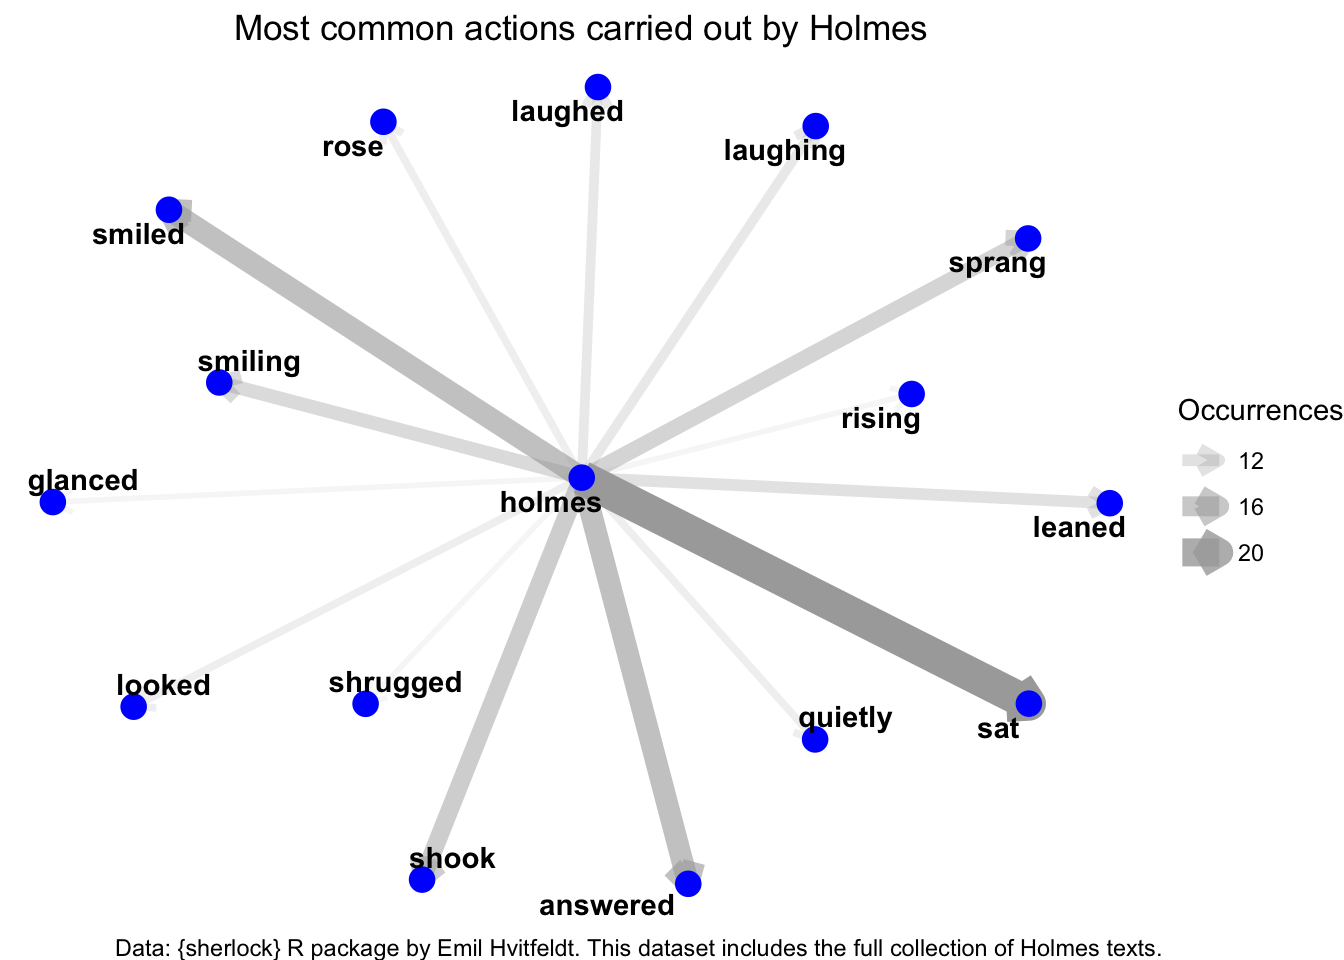
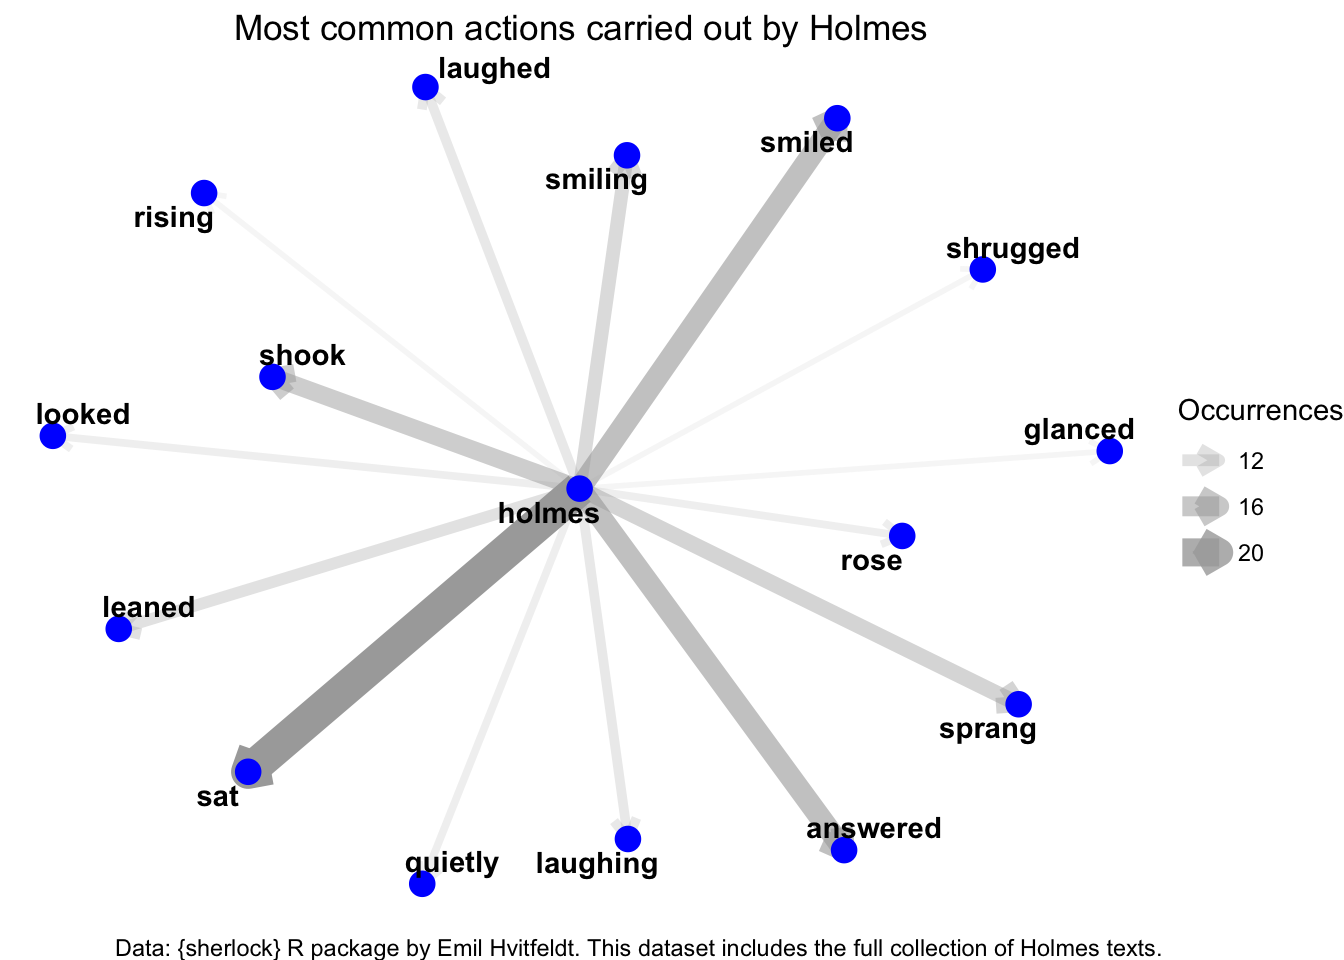
tidy tuesday update

diff --git a/Tidy_Tuesday/2025-11-18/Scripts/TidyTuesday3.html b/Tidy_Tuesday/2025-11-18/Scripts/TidyTuesday3.html
@@ -153,11 +153,9 @@ pre > code.sourceCode > span > a:first-child::before { text-decoration: underlin
 <span id="cb2-7"><a href="#cb2-7" aria-hidden="true" tabindex="-1"></a>  <span class="fu">count</span>(word1, word2, <span class="at">sort =</span> <span class="cn">TRUE</span>) <span class="sc">%&gt;%</span> <span class="co">#count the number of occurences</span></span>
 <span id="cb2-8"><a href="#cb2-8" aria-hidden="true" tabindex="-1"></a>  <span class="fu">drop_na</span>() <span class="sc">%&gt;%</span> <span class="co">#drop NAs</span></span>
 <span id="cb2-9"><a href="#cb2-9" aria-hidden="true" tabindex="-1"></a>  <span class="fu">top_n</span>(<span class="dv">15</span>) <span class="sc">%&gt;%</span> <span class="co">#choose top 15 occurences</span></span>
-<span id="cb2-10"><a href="#cb2-10" aria-hidden="true" tabindex="-1"></a>  <span class="fu">rename</span>(<span class="at">Occurrences =</span> n)</span></code><button title="Copy to Clipboard" class="code-copy-button"><i class="bi"></i></button></pre></div>
-<div class="cell-output cell-output-stderr">
-<pre><code>Selecting by n</code></pre>
-</div>
-<div class="sourceCode cell-code" id="cb4"><pre class="sourceCode r code-with-copy"><code class="sourceCode r"><span id="cb4-1"><a href="#cb4-1" aria-hidden="true" tabindex="-1"></a><span class="fu">glimpse</span>(tidyholmes) <span class="co">#take a look at the tidied data!</span></span></code><button title="Copy to Clipboard" class="code-copy-button"><i class="bi"></i></button></pre></div>
+<span id="cb2-10"><a href="#cb2-10" aria-hidden="true" tabindex="-1"></a>  <span class="fu">rename</span>(<span class="at">Occurrences =</span> n)</span>
+<span id="cb2-11"><a href="#cb2-11" aria-hidden="true" tabindex="-1"></a></span>
+<span id="cb2-12"><a href="#cb2-12" aria-hidden="true" tabindex="-1"></a><span class="fu">glimpse</span>(tidyholmes) <span class="co">#take a look at the tidied data!</span></span></code><button title="Copy to Clipboard" class="code-copy-button"><i class="bi"></i></button></pre></div>
 <div class="cell-output cell-output-stdout">
 <pre><code>Rows: 15
 Columns: 3
@@ -171,23 +169,19 @@ $ Occurrences &lt;int&gt; 23, 17, 17, 15, 14, 13, 12, 11, 11, 10, 10, 10, 9, 9, 
 <h1>Let’s make a word network plot!</h1>
 <p>This is the first time I’m using a word network plot. This will show us the relationship between the character Holmes and actions that he undertakes in all of the books.</p>
 <div class="cell">
-<div class="sourceCode cell-code" id="cb6"><pre class="sourceCode r code-with-copy"><code class="sourceCode r"><span id="cb6-1"><a href="#cb6-1" aria-hidden="true" tabindex="-1"></a><span class="fu">ggraph</span>(tidyholmes, </span>
-<span id="cb6-2"><a href="#cb6-2" aria-hidden="true" tabindex="-1"></a>       <span class="at">layout =</span> <span class="st">"fr"</span>) <span class="sc">+</span> <span class="co">#fr spreads out the points and lines on the graph</span></span>
-<span id="cb6-3"><a href="#cb6-3" aria-hidden="true" tabindex="-1"></a>  <span class="fu">geom_edge_link</span>(<span class="fu">aes</span>(<span class="at">alpha =</span> Occurrences, <span class="at">width =</span> Occurrences), <span class="co">#this geometry will add the edges/lines to connect word1 to word2</span></span>
-<span id="cb6-4"><a href="#cb6-4" aria-hidden="true" tabindex="-1"></a>                <span class="at">edge_colour =</span> <span class="st">"darkgrey"</span>,    <span class="co">#edge/line color</span></span>
-<span id="cb6-5"><a href="#cb6-5" aria-hidden="true" tabindex="-1"></a>                <span class="at">arrow =</span> <span class="fu">arrow</span>(<span class="at">length =</span> <span class="fu">unit</span>(<span class="dv">3</span>, <span class="st">'mm'</span>))) <span class="sc">+</span> <span class="co">#arrow length and size</span></span>
-<span id="cb6-6"><a href="#cb6-6" aria-hidden="true" tabindex="-1"></a>  <span class="fu">geom_node_point</span>(<span class="at">color =</span> <span class="st">"blue"</span>, <span class="at">size =</span> <span class="dv">4</span>) <span class="sc">+</span> <span class="co">#add nodes for edges to connect to</span></span>
-<span id="cb6-7"><a href="#cb6-7" aria-hidden="true" tabindex="-1"></a>  <span class="fu">geom_node_text</span>(<span class="fu">aes</span>(<span class="at">label =</span> name), <span class="co">#add labels to the nodes </span></span>
-<span id="cb6-8"><a href="#cb6-8" aria-hidden="true" tabindex="-1"></a>                 <span class="at">repel =</span> <span class="cn">TRUE</span>, <span class="co">#prevent labels from overlapping</span></span>
-<span id="cb6-9"><a href="#cb6-9" aria-hidden="true" tabindex="-1"></a>                 <span class="at">fontface =</span> <span class="st">"bold"</span>) <span class="sc">+</span> <span class="co">#bold font so word2 is distinct from plot</span></span>
-<span id="cb6-10"><a href="#cb6-10" aria-hidden="true" tabindex="-1"></a>  <span class="fu">theme_void</span>() <span class="sc">+</span> <span class="co">#remove x and y axis</span></span>
-<span id="cb6-11"><a href="#cb6-11" aria-hidden="true" tabindex="-1"></a>  <span class="fu">labs</span>(<span class="at">title =</span> <span class="st">"Most common actions carried out by Holmes"</span>,</span>
-<span id="cb6-12"><a href="#cb6-12" aria-hidden="true" tabindex="-1"></a>       <span class="at">caption =</span> <span class="st">"Data: {sherlock} R package by Emil Hvitfeldt. This dataset includes the full collection of Holmes texts."</span>) <span class="sc">+</span></span>
-<span id="cb6-13"><a href="#cb6-13" aria-hidden="true" tabindex="-1"></a>  <span class="fu">theme</span>(<span class="at">plot.title =</span> <span class="fu">element_text</span>(<span class="at">hjust =</span> <span class="fl">0.5</span>)) <span class="co">#adjust title text to halfway point </span></span></code><button title="Copy to Clipboard" class="code-copy-button"><i class="bi"></i></button></pre></div>
-<div class="cell-output cell-output-stderr">
-<pre><code>Warning: The `trans` argument of `continuous_scale()` is deprecated as of ggplot2 3.5.0.
-ℹ Please use the `transform` argument instead.</code></pre>
-</div>
+<div class="sourceCode cell-code" id="cb4"><pre class="sourceCode r code-with-copy"><code class="sourceCode r"><span id="cb4-1"><a href="#cb4-1" aria-hidden="true" tabindex="-1"></a><span class="fu">ggraph</span>(tidyholmes, </span>
+<span id="cb4-2"><a href="#cb4-2" aria-hidden="true" tabindex="-1"></a>       <span class="at">layout =</span> <span class="st">"fr"</span>) <span class="sc">+</span> <span class="co">#fr spreads out the points and lines on the graph</span></span>
+<span id="cb4-3"><a href="#cb4-3" aria-hidden="true" tabindex="-1"></a>  <span class="fu">geom_edge_link</span>(<span class="fu">aes</span>(<span class="at">alpha =</span> Occurrences, <span class="at">width =</span> Occurrences), <span class="co">#this geometry will add the edges/lines to connect word1 to word2</span></span>
+<span id="cb4-4"><a href="#cb4-4" aria-hidden="true" tabindex="-1"></a>                <span class="at">edge_colour =</span> <span class="st">"darkgrey"</span>,    <span class="co">#edge/line color</span></span>
+<span id="cb4-5"><a href="#cb4-5" aria-hidden="true" tabindex="-1"></a>                <span class="at">arrow =</span> <span class="fu">arrow</span>(<span class="at">length =</span> <span class="fu">unit</span>(<span class="dv">3</span>, <span class="st">'mm'</span>))) <span class="sc">+</span> <span class="co">#arrow length and size</span></span>
+<span id="cb4-6"><a href="#cb4-6" aria-hidden="true" tabindex="-1"></a>  <span class="fu">geom_node_point</span>(<span class="at">color =</span> <span class="st">"blue"</span>, <span class="at">size =</span> <span class="dv">4</span>) <span class="sc">+</span> <span class="co">#add nodes for edges to connect to</span></span>
+<span id="cb4-7"><a href="#cb4-7" aria-hidden="true" tabindex="-1"></a>  <span class="fu">geom_node_text</span>(<span class="fu">aes</span>(<span class="at">label =</span> name), <span class="co">#add labels to the nodes </span></span>
+<span id="cb4-8"><a href="#cb4-8" aria-hidden="true" tabindex="-1"></a>                 <span class="at">repel =</span> <span class="cn">TRUE</span>, <span class="co">#prevent labels from overlapping</span></span>
+<span id="cb4-9"><a href="#cb4-9" aria-hidden="true" tabindex="-1"></a>                 <span class="at">fontface =</span> <span class="st">"bold"</span>) <span class="sc">+</span> <span class="co">#bold font so word2 is distinct from plot</span></span>
+<span id="cb4-10"><a href="#cb4-10" aria-hidden="true" tabindex="-1"></a>  <span class="fu">theme_void</span>() <span class="sc">+</span> <span class="co">#remove x and y axis</span></span>
+<span id="cb4-11"><a href="#cb4-11" aria-hidden="true" tabindex="-1"></a>  <span class="fu">labs</span>(<span class="at">title =</span> <span class="st">"Most common actions carried out by Holmes"</span>,</span>
+<span id="cb4-12"><a href="#cb4-12" aria-hidden="true" tabindex="-1"></a>       <span class="at">caption =</span> <span class="st">"Data: {sherlock} R package by Emil Hvitfeldt. This dataset includes the full collection of Holmes texts."</span>) <span class="sc">+</span></span>
+<span id="cb4-13"><a href="#cb4-13" aria-hidden="true" tabindex="-1"></a>  <span class="fu">theme</span>(<span class="at">plot.title =</span> <span class="fu">element_text</span>(<span class="at">hjust =</span> <span class="fl">0.5</span>)) <span class="co">#adjust title text to halfway point </span></span></code><button title="Copy to Clipboard" class="code-copy-button"><i class="bi"></i></button></pre></div>
 <div class="cell-output-display">
 <div>
 <figure class="figure">
@@ -195,6 +189,7 @@ $ Occurrences &lt;int&gt; 23, 17, 17, 15, 14, 13, 12, 11, 11, 10, 10, 10, 9, 9, 
 </figure>
 </div>
 </div>
+<div class="sourceCode cell-code" id="cb5"><pre class="sourceCode r code-with-copy"><code class="sourceCode r"><span id="cb5-1"><a href="#cb5-1" aria-hidden="true" tabindex="-1"></a><span class="fu">ggsave</span>(<span class="fu">here</span>(<span class="st">"Tidy_Tuesday"</span>,<span class="st">"2025-11-18"</span>,<span class="st">"Output"</span>,<span class="st">"CommonActionsHolmes.png"</span>))</span></code><button title="Copy to Clipboard" class="code-copy-button"><i class="bi"></i></button></pre></div>
 </div>
 </section>
 
